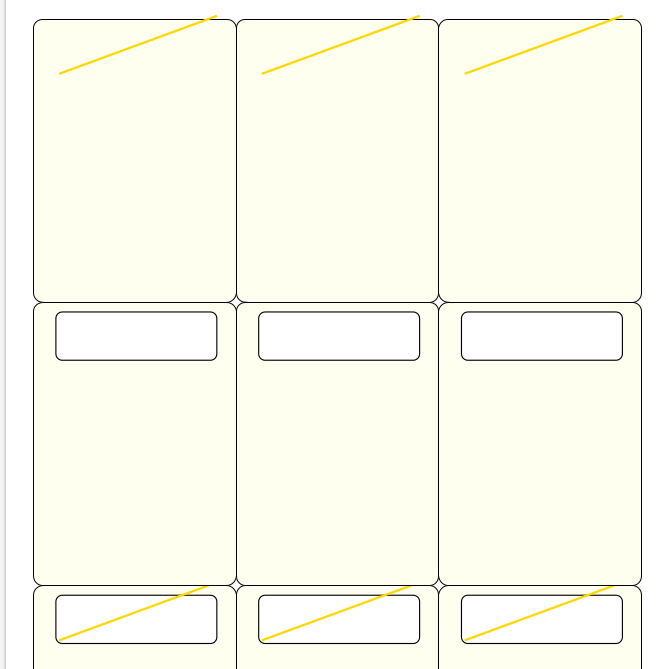
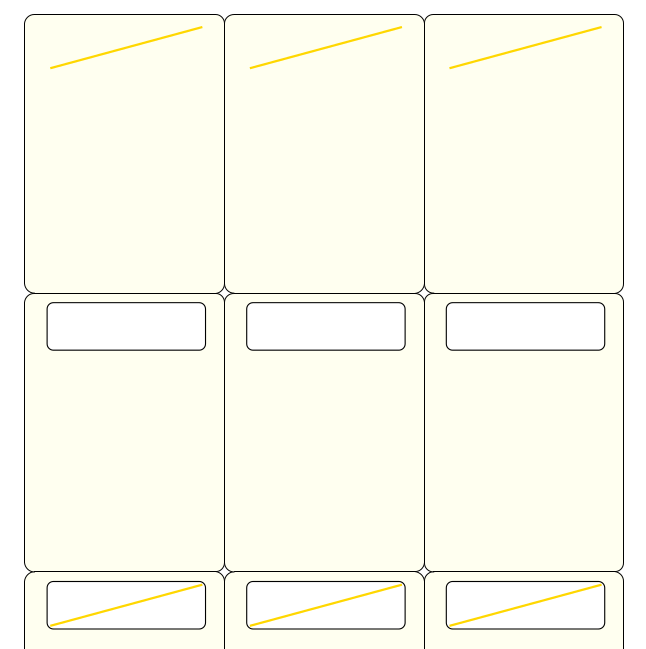
Complete work on card examples docs

diff --git a/examples/cards/cards_design.py b/examples/cards/cards_design.py
@@ -19,7 +19,7 @@ Deck(
      fill=ivory)
 
 # basic shapes
-l1 = line(x=0.8, x1=5.7, y=7.1, y1=8.9, stroke=gold, stroke_width=2)
+l1 = line(x=0.8, x1=5.6, y=7.1, y1=8.4, stroke=gold, stroke_width=2)
 r1 = rectangle(x=0.7, y=7.0, width=5, height=1.5, stroke_width=1, rounding=0.2)
 low = group(r1, l1)
 

diff --git a/docs/examples/cards.rst b/docs/examples/cards.rst
@@ -28,11 +28,29 @@ Title       *Simple set of Cards*
 ----------- ------------------------------------------------------------------
 Source Code `<../../examples/cards/cards_design.py>`_
 ----------- ------------------------------------------------------------------
-Discussion  This example shows how to construct a deck of cards using
+Discussion  This example shows how to construct a deck of cards using these
+            commands (only an extract of the code is shown here):
 
               .. code:: python
 
-                Data(filename="counters.xls")
+                l1 = line(
+                    x=0.8, x1=5.6, y=7.1, y1=8.4,
+                    stroke=gold, stroke_width=2)
+                r1 = rectangle(
+                    x=0.7, y=7.0, width=5, height=1.5,
+                    stroke_width=1, rounding=0.2)
+                low = group(r1, l1)
+
+                Card([1,2,3], low)
+                Card("4-6", r1)
+                Card("7,8,9", l1)
+
+            This is a simple design of lines and rectangles. These are
+            assigned names which can be used directly; or indirectly as part
+            of a ``group``.
+
+            The assignment as to which card (``Card``) can either be done via
+            a string e.g. ``"4-6"`` or a list of numbers e.g. ``[1,2,3]``.
 
             To set changes for cards at intervals; for example, every even
             card and also every odd card:
@@ -59,12 +77,37 @@ Title       *Cards generated from a Matrix*
 ----------- ------------------------------------------------------------------
 Source Code `<../../examples/cards/cards_matrix_one.py>`_
 ----------- ------------------------------------------------------------------
-Discussion  This example shows how to construct a deck of cards using
+Discussion  This example shows how to construct a deck of cards using these
+            commands (only an extract of the code is shown here):
 
               .. code:: python
 
-                Data(filename="counters.xls")
+                combos = Matrix(
+                    labels=['SUIT', 'VALUE', 'IMAGE'],
+                    data=[
+                        # tomato, lime, aqua, gold, hotpink
+                        ['#FF6347', '#00FF00','#00FFFF', '#FFD700', '#FF69B4'],
+                        ['5', '3', '1'],
+                        # tapedrive, heart, snowflake
+                        ['\u2707', '\u2766', '\u2745']
+                    ])
+                Data(matrix=combos)
 
+            The use of the ``Matrix`` command is helpful for a design that is
+            a combination/permutation scenario.
+
+            In this example each card will display a unique combination of a
+            *SUIT* - these are hexadecimals colors in the first list appearing
+            in ``data`` - plus a *VALUE* - these are the items in the second
+            list appearing in ``data`` - and an *IMAGE* - these are the
+            Unicode symbols in the third list of ``data``. As can be seen, a
+            Unicode symbol is shown by 4-characters prefixed by the ``\u``
+            (For more, see
+            `Unicode <../useful_resources.rst#unicode-characters>`_
+            character resources.)
+
+            Once defined in the ``Matrix``, the results will be generated and
+            stored via the ``Data`` command's **matrix** property.
 ----------- ------------------------------------------------------------------
 Screenshot  .. image:: images/cards/cards_matrix.png
                :width: 90%
@@ -80,11 +123,63 @@ Title       *Standard Playing Cards generated from a Matrix & Images*
 ----------- ------------------------------------------------------------------
 Source Code `<../../examples/cards/cards_standard.py>`_
 ----------- ------------------------------------------------------------------
-Discussion  This example shows how to construct a deck of cards using
+Discussion  This example shows how to construct a deck of cards using these
+            commands (only an extract of the code is shown here).
+
+            The bulk of the cards are generated via a ``Matrix`` (see the
+            **Matrix** example above), also using Unicode symbols for the
+            **SUIT** and a list of the standard card **VALUE** letters and
+            numbers:
 
               .. code:: python
 
-                Data(filename="counters.xls")
+                combos = Matrix(
+                    labels=['SUIT', 'VALUE'],
+                    data=[
+                        # spade, club, heart, diamond
+                        ['\u2660', '\u2663', '\u2665', '\u2666'],
+                        ['K','Q','J','10','9','8','7','6','5','4','3','2','A'],
+                    ])
+                Data(matrix=combos, extra=2)
+
+            The **extra** property for the ``Data`` command allows the deck to
+            consist of more more cards than those generated by the ``Matrix``;
+            so, in this case, 4 suits multiplied by 13 values is 52 cards.
+
+            The Royalty cards require an image, whose settings are created via
+            a ``Common`` command:
+
+              .. code:: python
+
+                royals = Common(x=1.5, y=2, width=3.5, height=5)
+                Card("14", image("images/king_c.png", common=royals))
+                Card("15", image("images/queen_c.png", common=royals))
+
+            The Ace of Spades is often specially demarcated in a deck via a
+            more elaborate design. In this case, the design is simply two
+            large spades symbols, of different colors, superimposed:
+
+              .. code:: python
+
+                Card("13",
+                     text(
+                         x=3.15, y=2.5,
+                         font_size=180, stroke=black, text='\u2660'),
+                     text(x=3.15, y=3.8,
+                         font_size=60, stroke=white, text='\u2660'))
+
+            The Jokers (not shown in the screenshot) are the extra 2 cards
+            needed for a standard deck. In this case they also require an
+            image, as well as text whose settings are created via a
+            ``Common`` command:
+
+              .. code:: python
+
+                Card("53",
+                     text(common=value_top, stroke=black, text='J'),
+                     text(common=value_low, stroke=black, text='J'),
+                     image("images/joker_black.png", x=1, y=2, width=5, height=5))
+
 
 ----------- ------------------------------------------------------------------
 Screenshot  .. image:: images/cards/cards_standard.png
@@ -101,11 +196,29 @@ Title       *Cards generated from an images directory*
 ----------- ------------------------------------------------------------------
 Source Code `<../../examples/cards/cards_images.py>`_
 ----------- ------------------------------------------------------------------
-Discussion  This example shows how to construct a deck of cards using
+Discussion  This example shows how to construct a deck of cards using these
+            commands (only an extract of the code is shown here):
 
               .. code:: python
 
-                Data(filename="counters.xls")
+                Data(images="pictures", images_filter=".png,.jpg")
+                # add an image from Data to each card
+                Card("*", image("*", x=0, y=0, width=6.3, height=8.8))
+
+            The commands for generating cards that just consist of an image
+            are simple.  the ``Data`` command's **images** property points to
+            a directory containing all the images. It can be helpful to ensure
+            that any non-image files stored in that  directory are ignored;
+            for this purpose the **images_filter** property can be set to
+            contain a list of allowable file extensions.
+
+            The ``Card`` command sets all cards in the deck (via ``*``) to
+            each use an image; but in thise case no ``Image`` name is set
+            as this will be "filled in" with the names from the ``Data``.
+
+            *Credits:* the original image that was "chopped up" to form the
+            set of images used for these example cards was sourced from:
+            https://picjumbo.com/mysterious-fantasy-forest-with-old-bridges/
 
 ----------- ------------------------------------------------------------------
 Screenshot  .. image:: images/cards/cards_images.png

diff --git a/docs/useful_resources.rst b/docs/useful_resources.rst
@@ -30,6 +30,7 @@ Unicode Characters
 ==================
 
 There are thousands of symbols that are potentially of use in a design.
+
 For game design, the character sets from U+2000 (General Punctuation) to
 U+2BFF (Miscellaneous Symbols and Arrows) are likely to be of interest.
 **NOTE** that not all Unicode characters can be displayed in all fonts!
